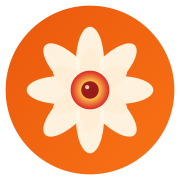
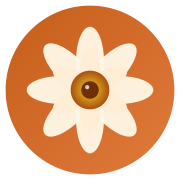
chore: update branding to Sacred Saffron theme colors
- Update all SVG logos with Sacred Saffron (#C65D1A) and Turmeric Gold (#D4A017)
- Regenerate all PNG icons from updated SVG (PWA icons, apple-touch-icon, email logo)
- Update og-image with new theme colors
- Update theme-color meta tag and PWA manifest
- Update email template colors (buttons, links, accents)

diff --git a/frontend/index.html b/frontend/index.html
@@ -34,8 +34,8 @@
     <meta name="title" content="Geetanjali - Ethical Guidance from the Bhagavad Geeta" />
     <meta name="description" content="Ethical leadership guidance and wisdom from the Bhagavad Geeta for life's difficult decisions. Free consultations with timeless wisdom." />
 
-    <!-- Theme Color -->
-    <meta name="theme-color" content="#EA580C" />
+    <!-- Theme Color - Sacred Saffron (v1.22.0) -->
+    <meta name="theme-color" content="#C65D1A" />
 
     <!-- PWA Manifest -->
     <link rel="manifest" href="/manifest.json" />

diff --git a/backend/services/email/templates.py b/backend/services/email/templates.py
@@ -67,7 +67,7 @@ def email_footer(links: list[tuple[str, str]]) -> str:
 
 def email_button(text: str, url: str) -> str:
     """
-    Generate orange CTA button.
+    Generate Sacred Saffron CTA button.
 
     Args:
         text: Button text
@@ -79,7 +79,7 @@ def email_button(text: str, url: str) -> str:
     return f"""
                 <div style="text-align: center; margin: 24px 0;">
                     <a href="{url}"
-                       style="display: inline-block; background: #ea580c; color: white; padding: 12px 28px; text-decoration: none; border-radius: 10px; font-weight: 500; font-size: 14px;">
+                       style="display: inline-block; background: #C65D1A; color: white; padding: 12px 28px; text-decoration: none; border-radius: 10px; font-weight: 500; font-size: 14px;">
                         {text}
                     </a>
                 </div>
@@ -98,7 +98,7 @@ def email_section(title: str, content: str, accent: bool = False) -> str:
     Returns:
         HTML string for section
     """
-    border_style = "border-left: 3px solid #f59e0b;" if accent else ""
+    border_style = "border-left: 3px solid #D4A017;" if accent else ""
     bg_style = (
         "background: #fefce8;" if accent else "background: rgba(254, 243, 199, 0.5);"
     )
@@ -202,6 +202,6 @@ def email_fallback_link(url: str) -> str:
     return f"""
                 <p style="color: #a8a29e; font-size: 12px; margin: 16px 0 0 0;">
                     If the button doesn't work, copy and paste this link:<br>
-                    <a href="{url}" style="color: #d97706; word-break: break-all;">{url}</a>
+                    <a href="{url}" style="color: #A94E12; word-break: break-all;">{url}</a>
                 </p>
     """

diff --git a/backend/services/email/service.py b/backend/services/email/service.py
@@ -241,7 +241,7 @@ def send_contact_email(
             </tr>
             <tr>
                 <td style="padding: 8px 0; color: #78716c; vertical-align: top;">Email:</td>
-                <td style="padding: 8px 0;"><a href="mailto:{safe_email}" style="color: #d97706;">{safe_email}</a></td>
+                <td style="padding: 8px 0;"><a href="mailto:{safe_email}" style="color: #A94E12;">{safe_email}</a></td>
             </tr>
             <tr>
                 <td style="padding: 8px 0; color: #78716c; vertical-align: top;">Type:</td>
